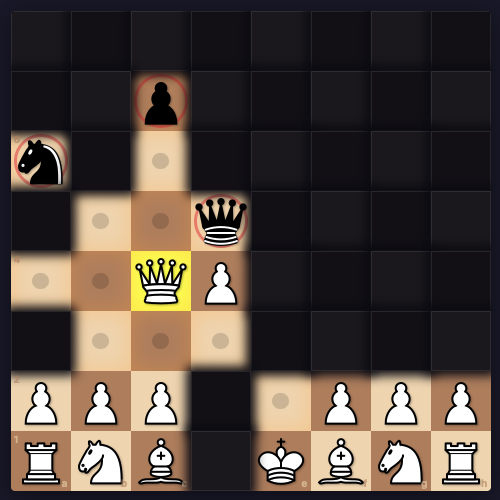
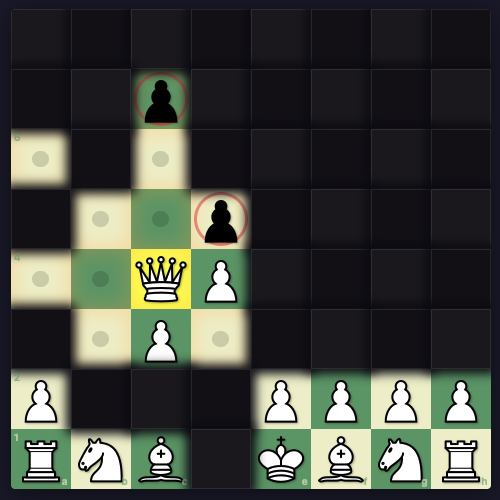
feat: Change board colors to a green/cream theme (#21)

diff --git a/css/style.css b/css/style.css
@@ -55,12 +55,12 @@ button:disabled {
   --danger: #e74c3c;
   --success: #2ecc71;
 
-  --board-light: #f0d9b5;
-  --board-dark: #b58863;
+  --board-light: #f0f0cc;
+  --board-dark: #6b9e6e;
   --board-selected: #ffff44;
   --board-legal: rgba(0, 0, 0, 0.15);
   --board-capture: rgba(220, 50, 50, 0.5);
-  --board-last-move: rgba(255, 255, 100, 0.35);
+  --board-last-move: rgba(244, 244, 117, 0.8);
   --board-check: rgba(255, 0, 0, 0.6);
   --board-checkmate: rgba(180, 0, 255, 0.7);
   --board-stalemate: rgba(90, 90, 90, 0.75);
@@ -291,8 +291,8 @@ body {
 }
 
 .btn-color-white-choice {
-  background: #b58863;
-  color: #e8dcc8;
+  background: var(--board-light);
+  color: #2c2415;
 }
 
 .btn-color-white-choice .color-choice-piece {
@@ -310,7 +310,7 @@ body {
 }
 
 .btn-color-black-choice {
-  background: #f0d9b5;
+  background: var(--board-dark);
   color: #2c2415;
   border-color: #d4b890;
 }
@@ -742,9 +742,9 @@ img.piece {
   transition:
     border-color 0.2s,
     background 0.2s;
-  background: #f0d9b5;
+  background: var(--board-light);
   color: #1a1a2e;
-  border-color: #b58863;
+  border-color: var(--board-dark);
 }
 
 .promotion-choice:hover {
